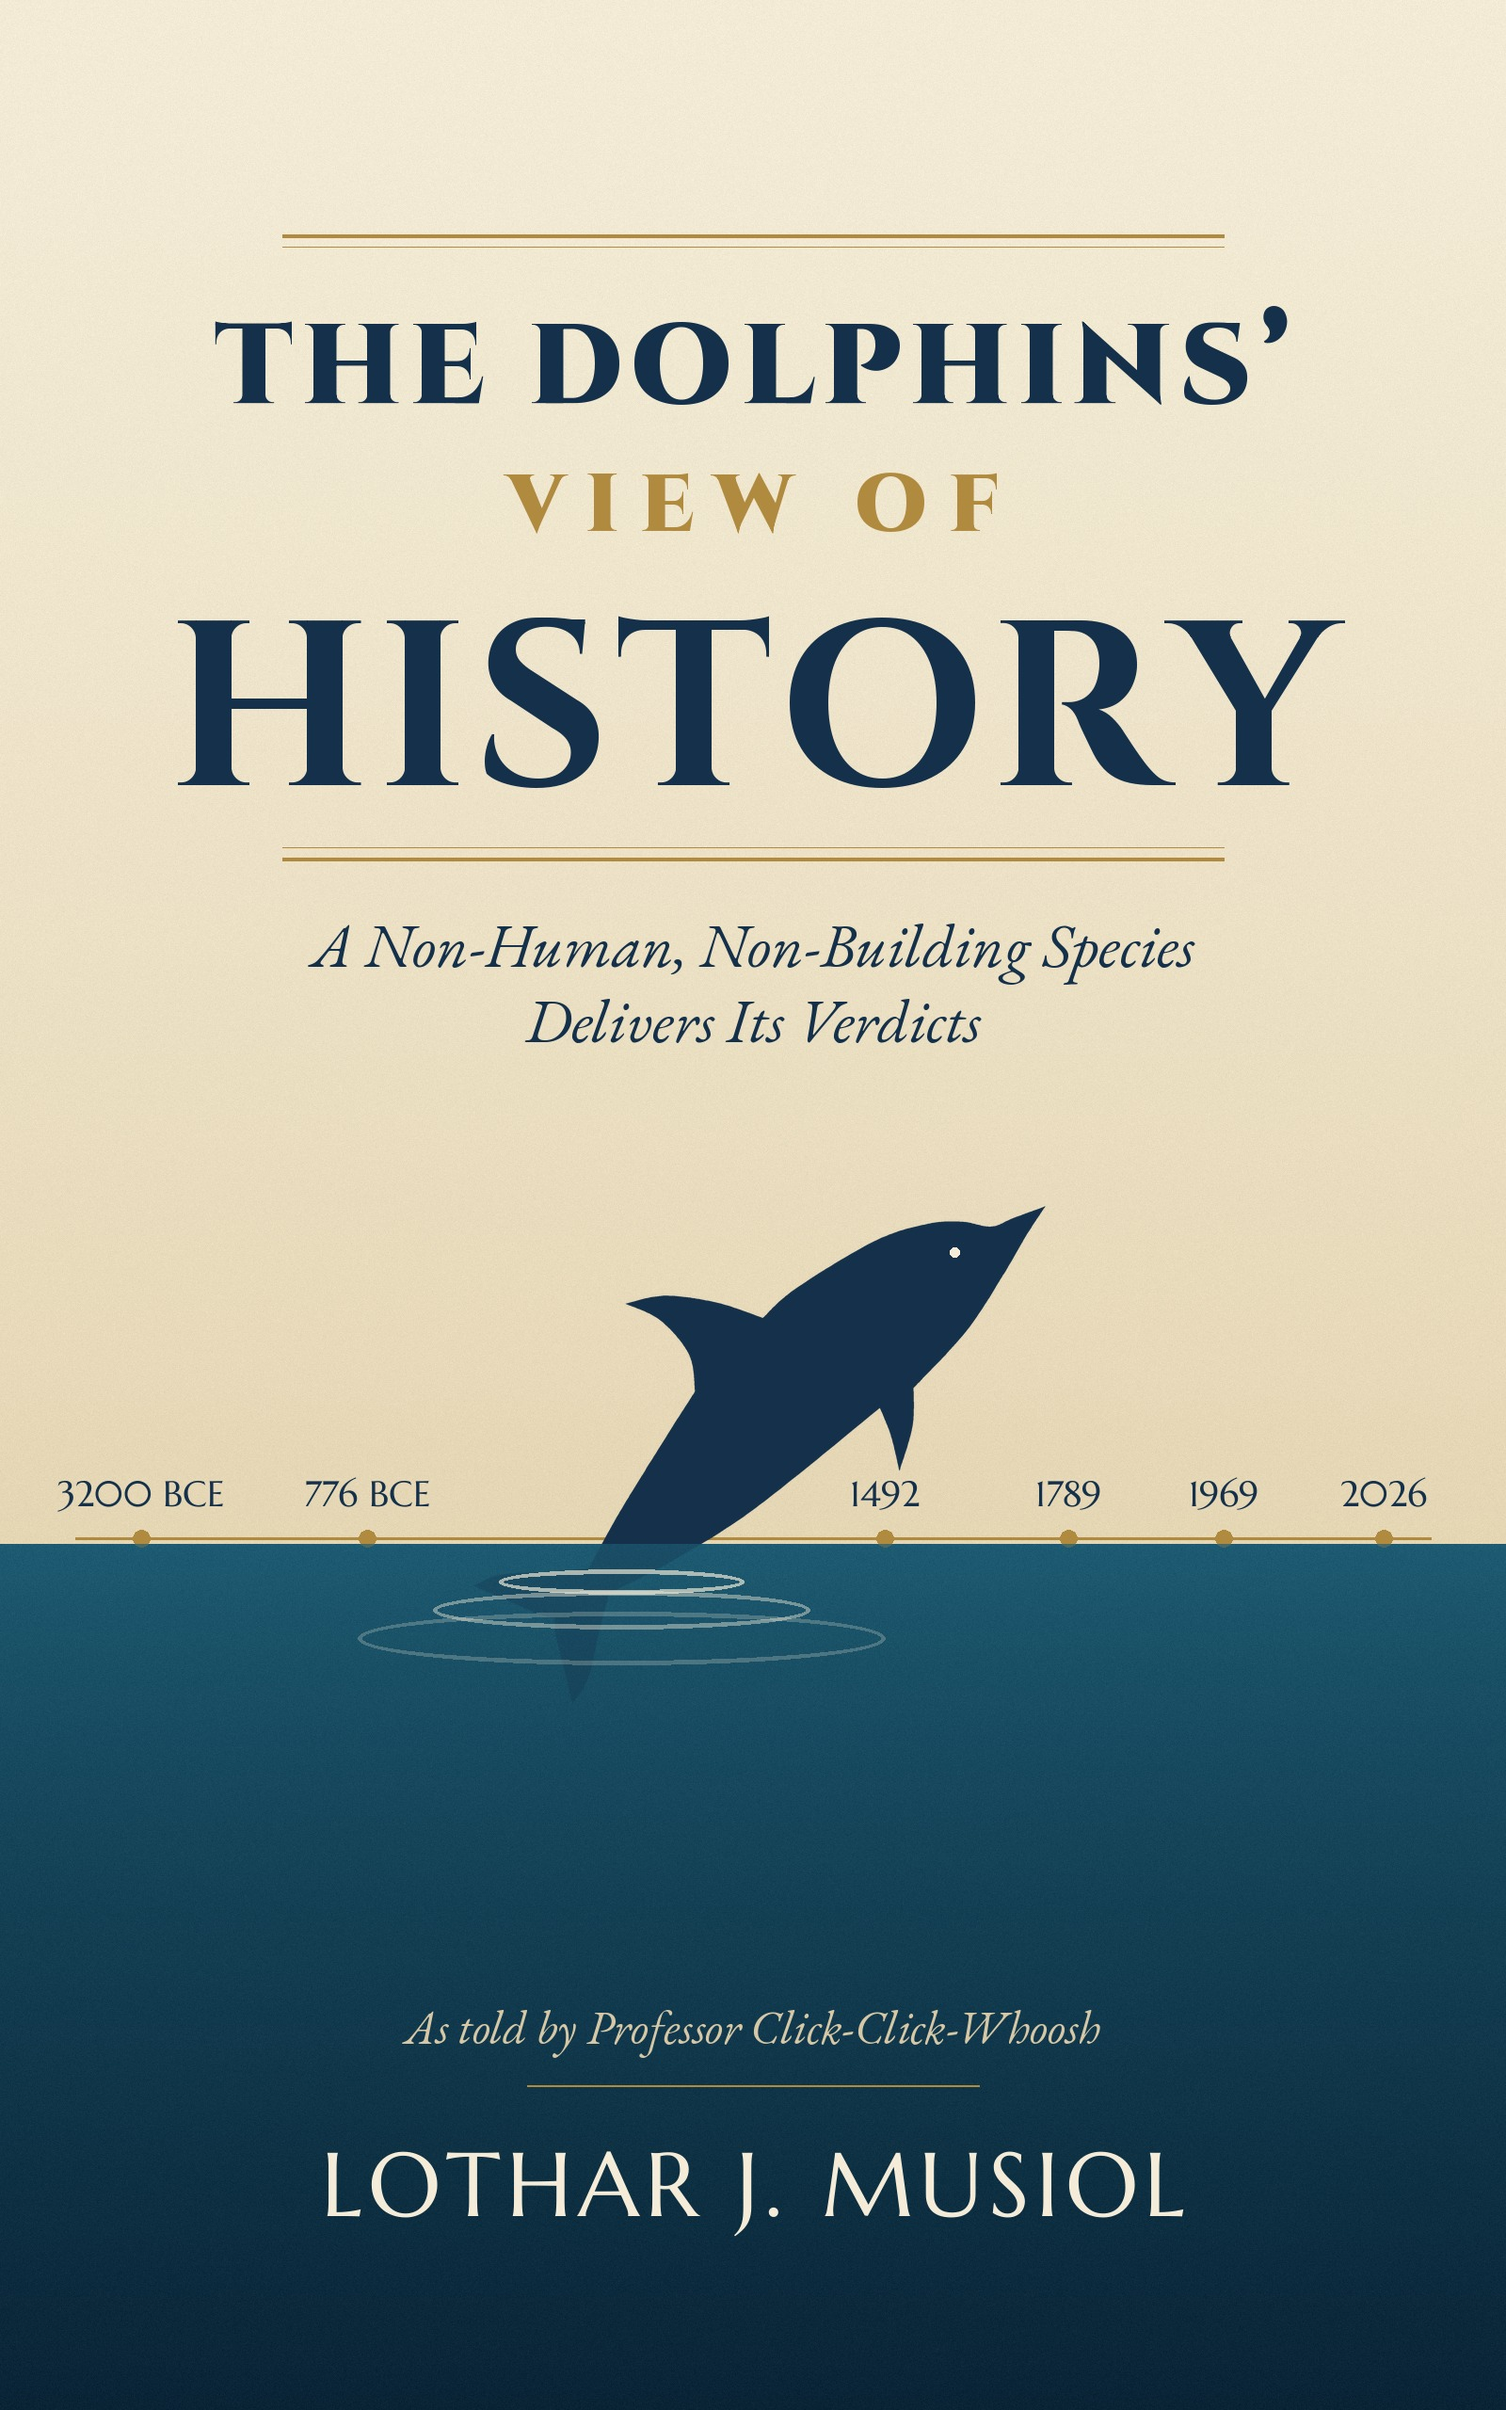
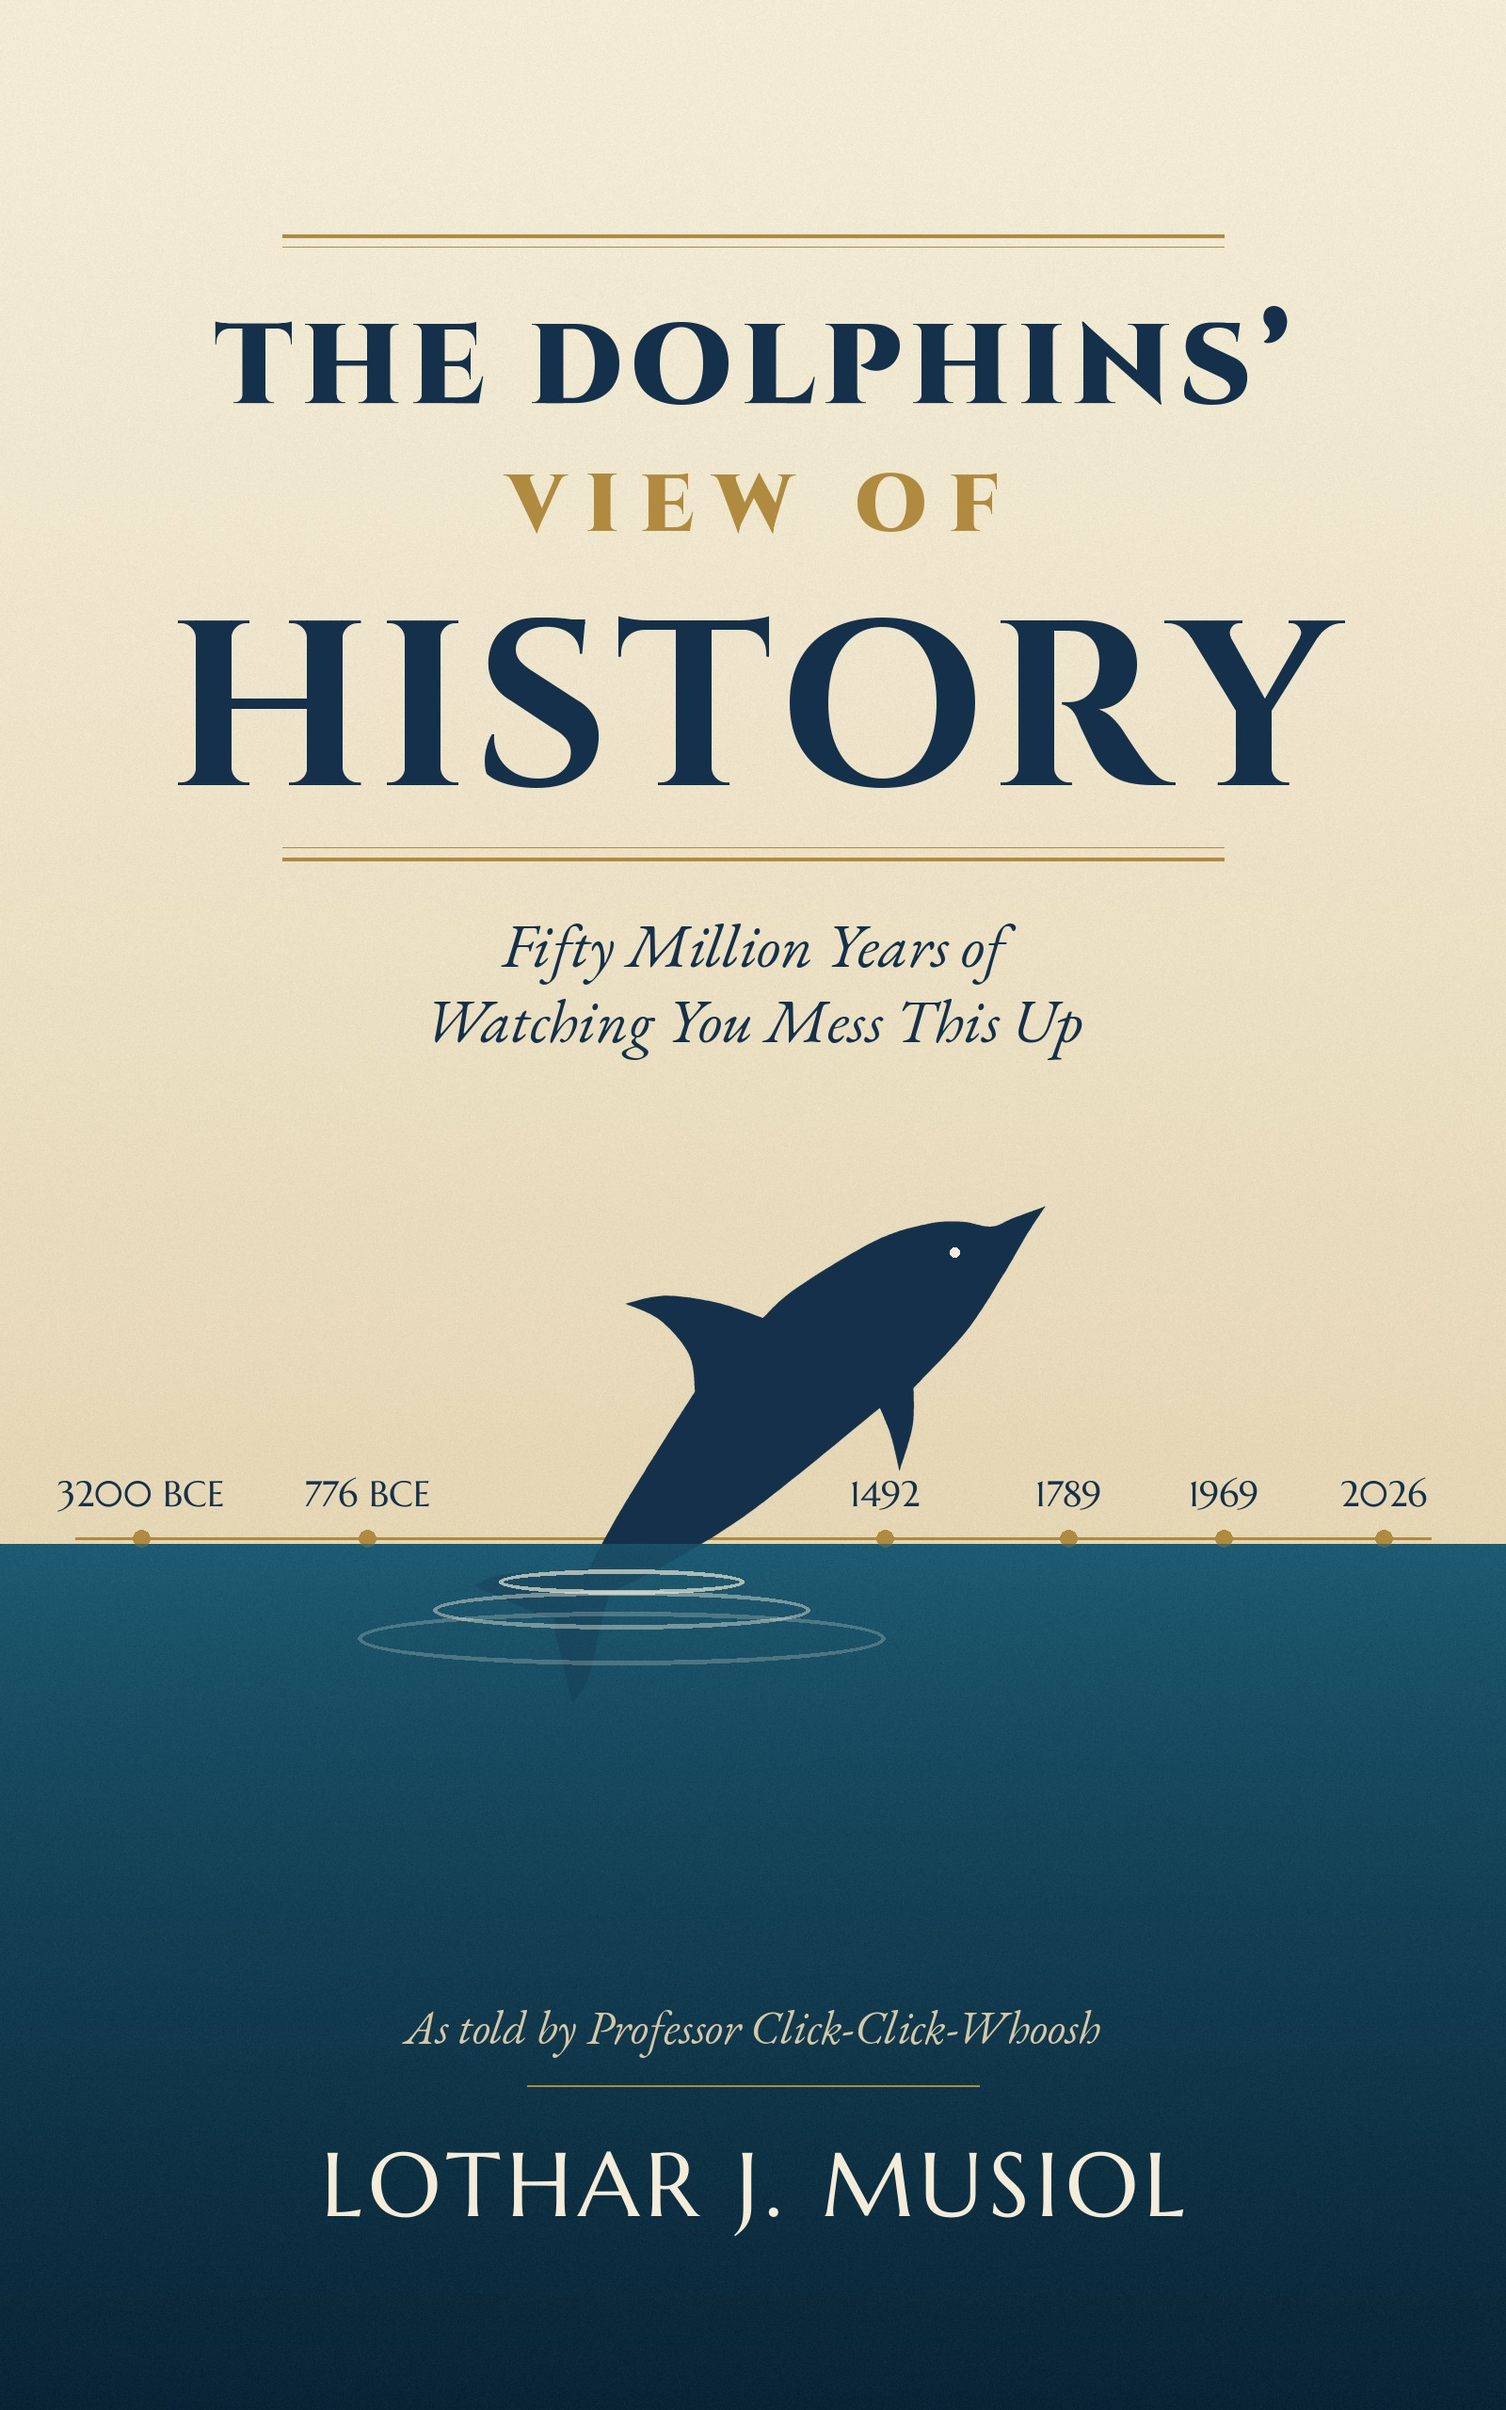
Dolphins: update front cover subtitle to match the new KDP listing
PR #85 changed the KDP subtitle to "Fifty Million Years of Watching
You Mess This Up" but the cover art still showed the old one ("A
Non-Human, Non-Building Species Delivers Its Verdicts"), a live
mismatch between the listing and the actual cover. Regenerated via
scripts/make_front_cover.py with the new subtitle text.

Claude-Session: https://claude.ai/code/session_01No3CTqqXoAC7DqUj3kRTnA

Changed region(s): [[0.2188, 0.375, 0.7812, 0.4375]]

diff --git a/The Dolphins' View of History/scripts/make_front_cover.py b/The Dolphins' View of History/scripts/make_front_cover.py
@@ -38,8 +38,8 @@ ctext(480,'VIEW OF',fs,GOLD,track=22)
 ctext(590,'HISTORY',fb,NAVY,track=6)
 d.line([(300,900),(1300,900)],fill=GOLD,width=1); d.line([(300,912),(1300,912)],fill=GOLD,width=4)
 fi=font('EB Garamond/EBGaramond-Italic-VariableFont_wght.ttf',66)
-ctext(960,'A Non-Human, Non-Building Species',fi,NAVY)
-ctext(1040,'Delivers Its Verdicts',fi,NAVY)
+ctext(960,'Fifty Million Years of',fi,NAVY)
+ctext(1040,'Watching You Mess This Up',fi,NAVY)
 # --- timeline along the horizon
 ft=font('Marcellus SC/MarcellusSC-Regular.ttf',38)
 marks=[(150,'3200 BCE'),(390,'776 BCE'),(940,'1492'),(1135,'1789'),(1300,'1969'),(1470,'2026')]
